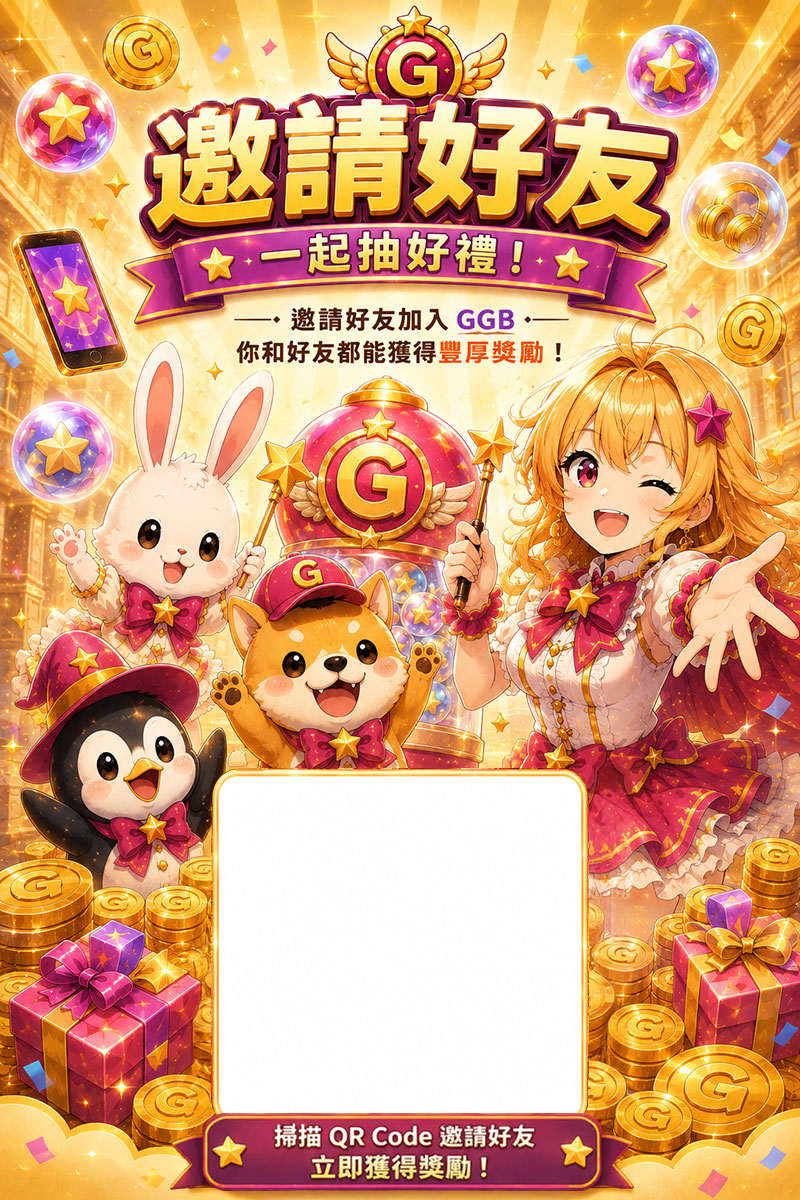
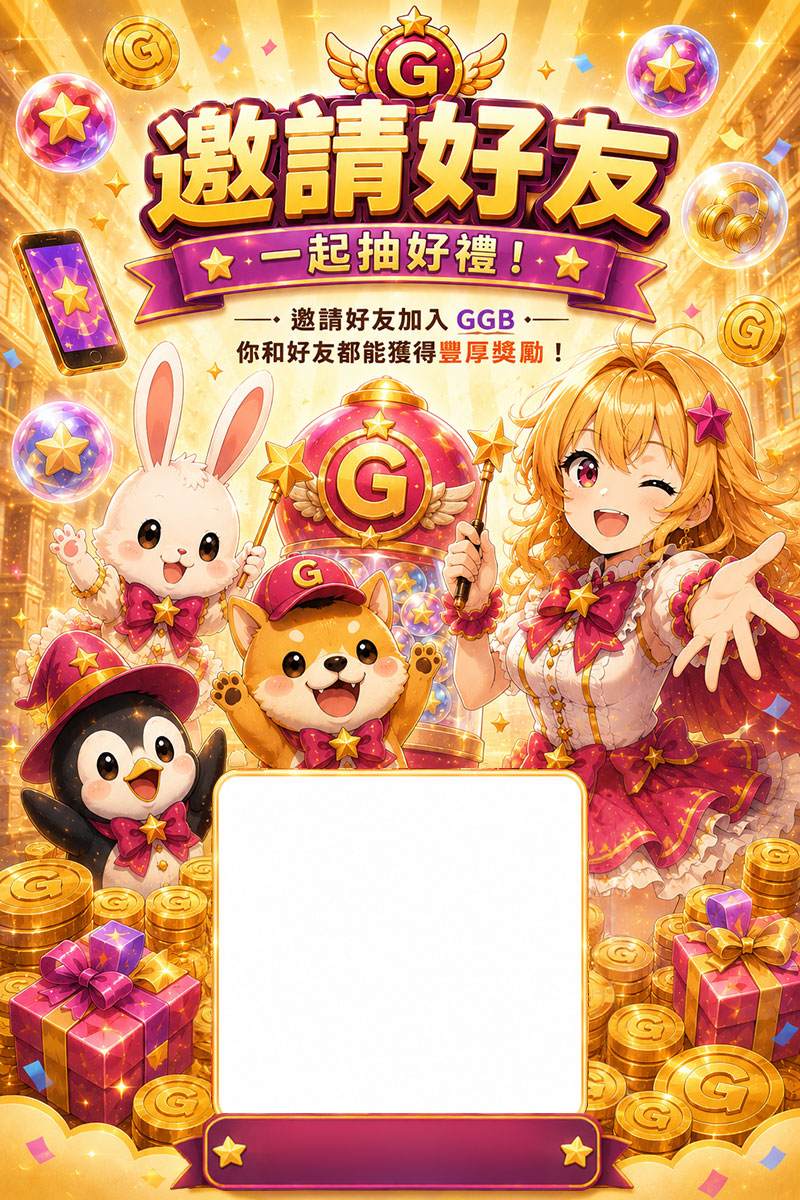
feat: 邀請頁紅旗疊「邀請碼＋複製圖標」，下載版只有字（老闆指定）
- 新版 invite.jpg：紅旗文字老闆已清空，位置程式實測
  中心 (50%, 95.25%)，常數收檔頭
- 畫面：紅旗上白字「邀請碼 XXXXXX」＋複製圖標，點了複製碼本身
- 下載 canvas：同座標畫同一行字，不畫複製圖標
- 字級同一個 34/800 比例：手機滿版 4.25vw、桌機 max-w-md 19px

Changed region(s): [[0.3438, 0.925, 0.6875, 0.9867]]

diff --git a/frontend/app/invite/page.tsx b/frontend/app/invite/page.tsx
@@ -4,6 +4,7 @@ import { useEffect, useState } from 'react';
 import { useRouter } from 'next/navigation';
 import Image from 'next/image';
 import QRCode from 'qrcode';
+import { Copy } from 'lucide-react';
 import { useAuth } from '@/contexts/AuthContext';
 import { useToast } from '@/components/ui/Toast';
 import { buildInviteMessage } from '@/lib/inviteMessage';
@@ -27,6 +28,15 @@ import { buildInviteMessage } from '@/lib/inviteMessage';
  */
 const QR_CENTER_Y = 0.787;
 const QR_SIZE = 0.375; // 相對圖寬（= 300px / 800px）
+
+/**
+ * QR 下方紅旗緞帶：x 234~572、y 1113~1173 → 中心 (50%, 95.25%)。
+ * 旗上疊「邀請碼 XXXXXX＋複製圖標」；下載的合成圖畫同一行字但
+ * 不含複製圖標（老闆指定）。字級 34px（相對 800 寬）＝手機 4.25vw
+ * （滿版時視窗寬＝圖寬）＝桌機 19px（max-w-md 448px）。
+ */
+const RIBBON_CENTER_Y = 0.9525;
+const CODE_FONT_PX = 34; // 相對 800 寬的 canvas 字級
 
 export default function InvitePage() {
   const router = useRouter();
@@ -73,6 +83,16 @@ export default function InvitePage() {
     }
   };
 
+  const copyCode = async () => {
+    if (!code) return;
+    try {
+      await navigator.clipboard.writeText(code);
+      showToast('邀請碼已複製', 'success');
+    } catch {
+      showToast('複製失敗，請重試一次', 'error');
+    }
+  };
+
   /** 下載 hero 圖（含 QR）：跟畫面同一組座標常數，畫一份存下來 */
   const downloadHero = async () => {
     if (!qr) return;
@@ -90,6 +110,15 @@ export default function InvitePage() {
 
       const size = W * QR_SIZE;
       ctx.drawImage(qrImg, (W - size) / 2, H * QR_CENTER_Y - size / 2, size, size);
+
+      // 紅旗上的邀請碼 —— 下載版只有字，不畫複製圖標（老闆指定）
+      if (code) {
+        ctx.font = `bold ${CODE_FONT_PX}px system-ui, -apple-system, sans-serif`;
+        ctx.fillStyle = '#ffffff';
+        ctx.textAlign = 'center';
+        ctx.textBaseline = 'middle';
+        ctx.fillText(`邀請碼 ${code}`, W / 2, H * RIBBON_CENTER_Y + 2);
+      }
 
       canvas.toBlob(blob => {
         if (!blob) { showToast('下載失敗，請重試一次', 'error'); return; }
@@ -132,6 +161,21 @@ export default function InvitePage() {
             <div className="aspect-square w-full animate-pulse rounded-lg bg-neutral-100" />
           )}
         </div>
+        {/* 紅旗上的邀請碼＋複製圖標（圖標只在畫面上，下載版不畫）。
+            字級跟下載 canvas 同一個 34/800 比例：手機滿版用 vw，桌機固定 px */}
+        {code && (
+          <button
+            type="button"
+            onClick={() => void copyCode()}
+            className="absolute inset-x-0 flex -translate-y-1/2 items-center justify-center gap-[1.25vw] md:gap-1.5"
+            style={{ top: `${RIBBON_CENTER_Y * 100}%` }}
+          >
+            <span className="text-[4.25vw] font-bold text-white md:text-[19px]">
+              邀請碼 <span className="tracking-[0.06em]">{code}</span>
+            </span>
+            <Copy className="h-[3.6vw] w-[3.6vw] text-white/90 md:h-4 md:w-4" />
+          </button>
+        )}
       </div>
     </div>
   );
